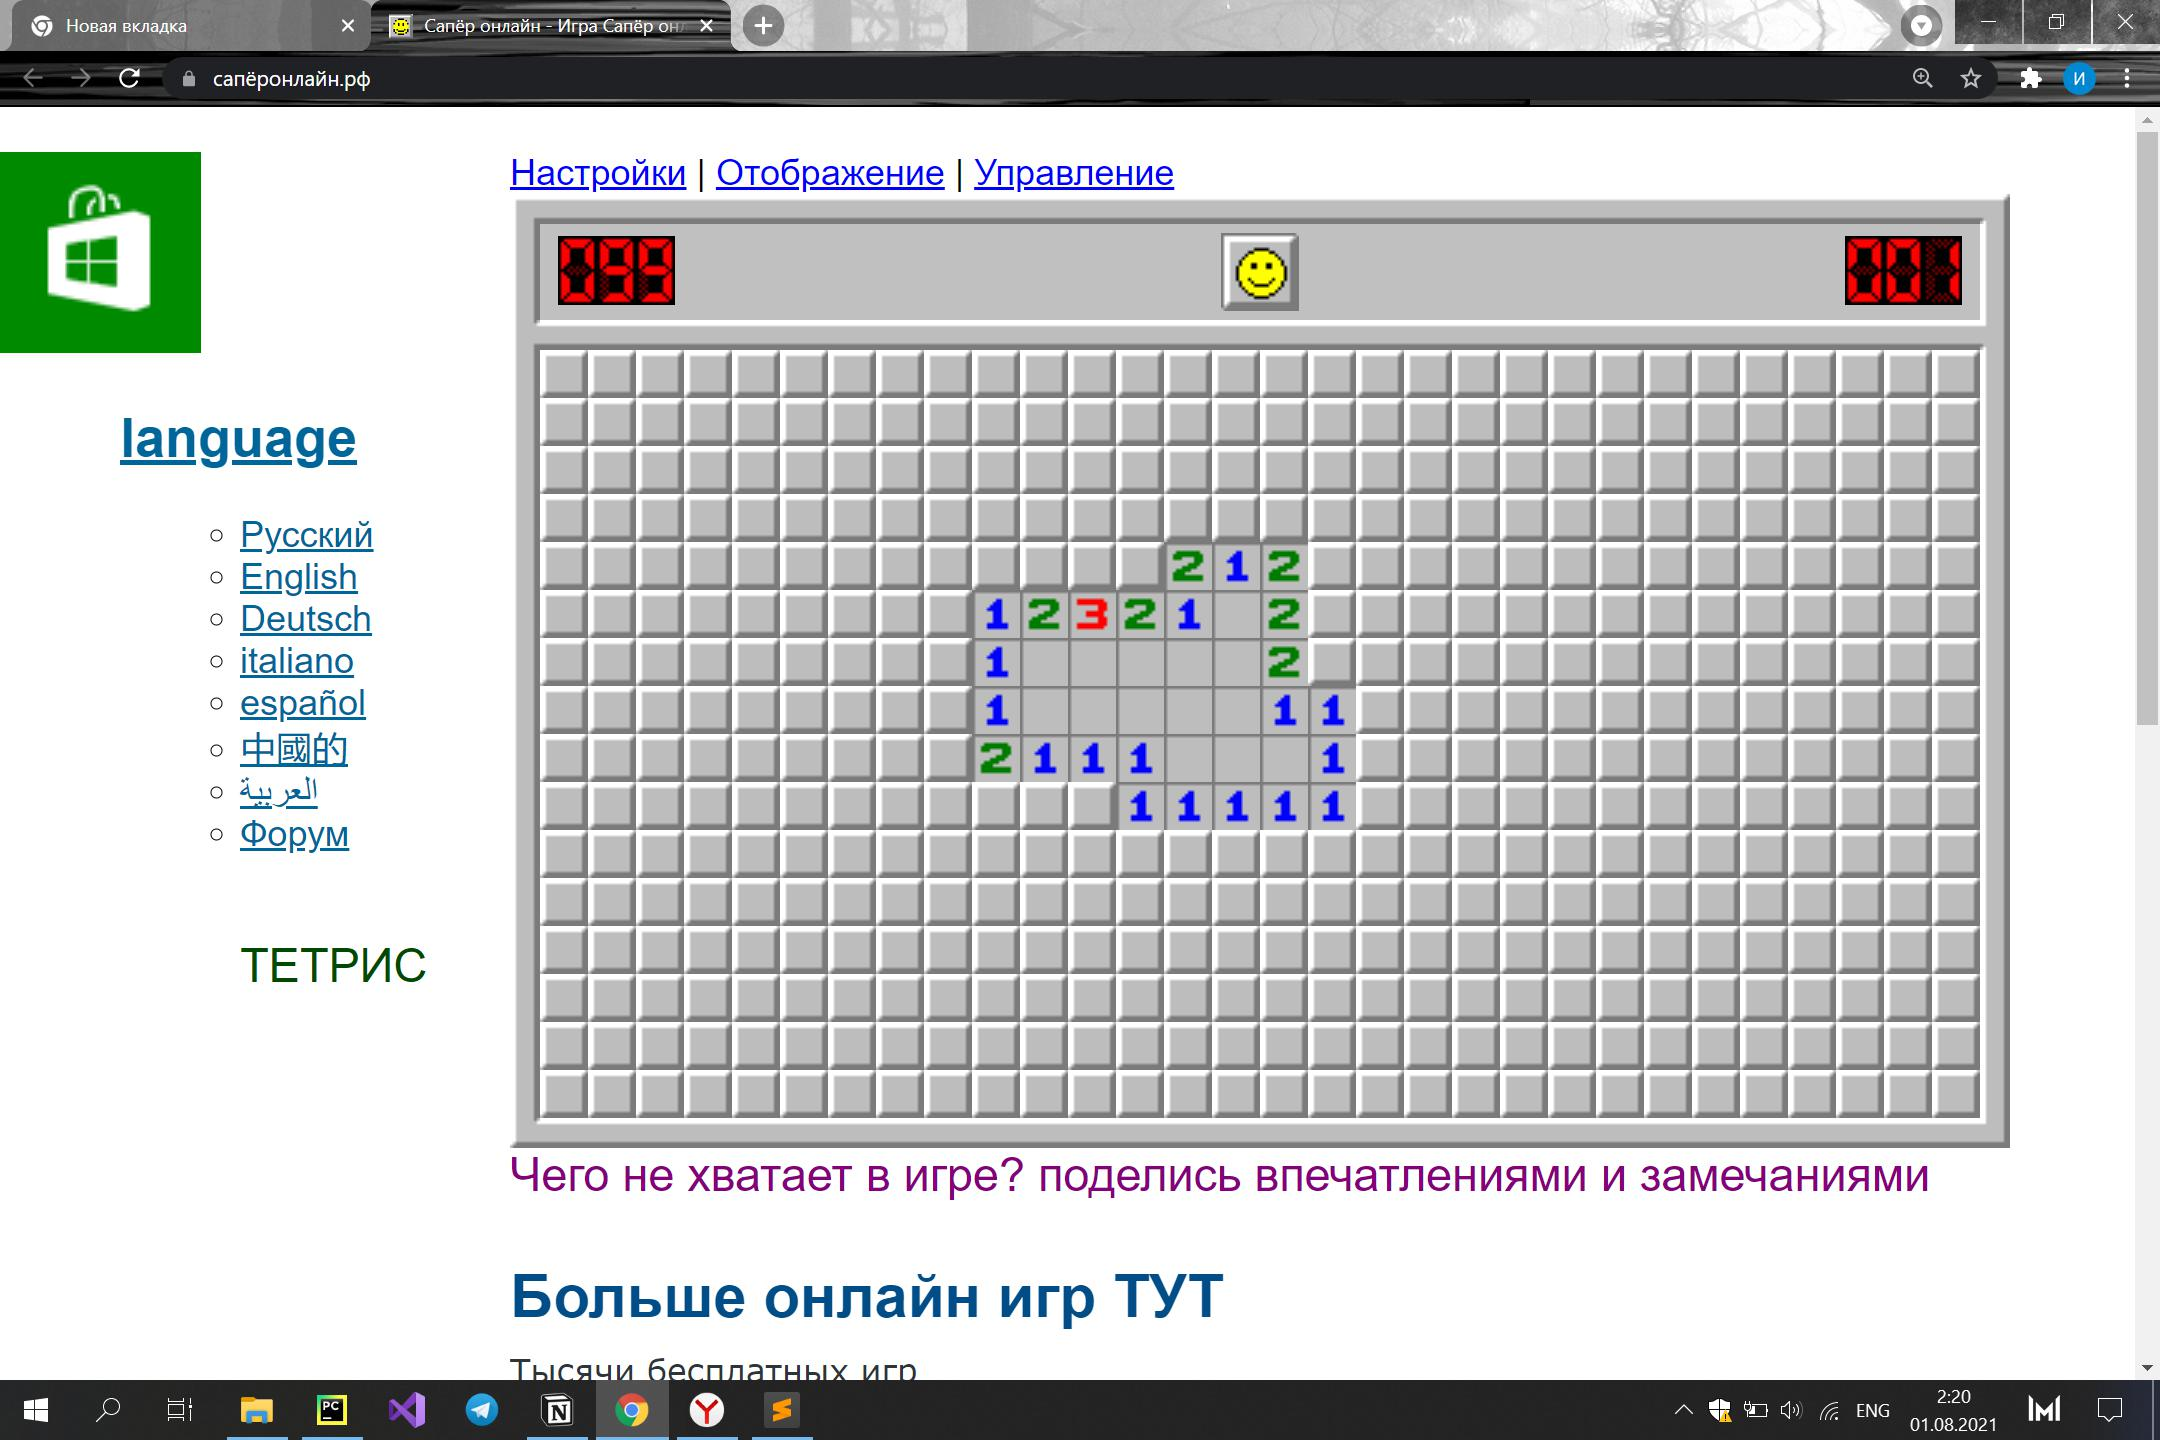
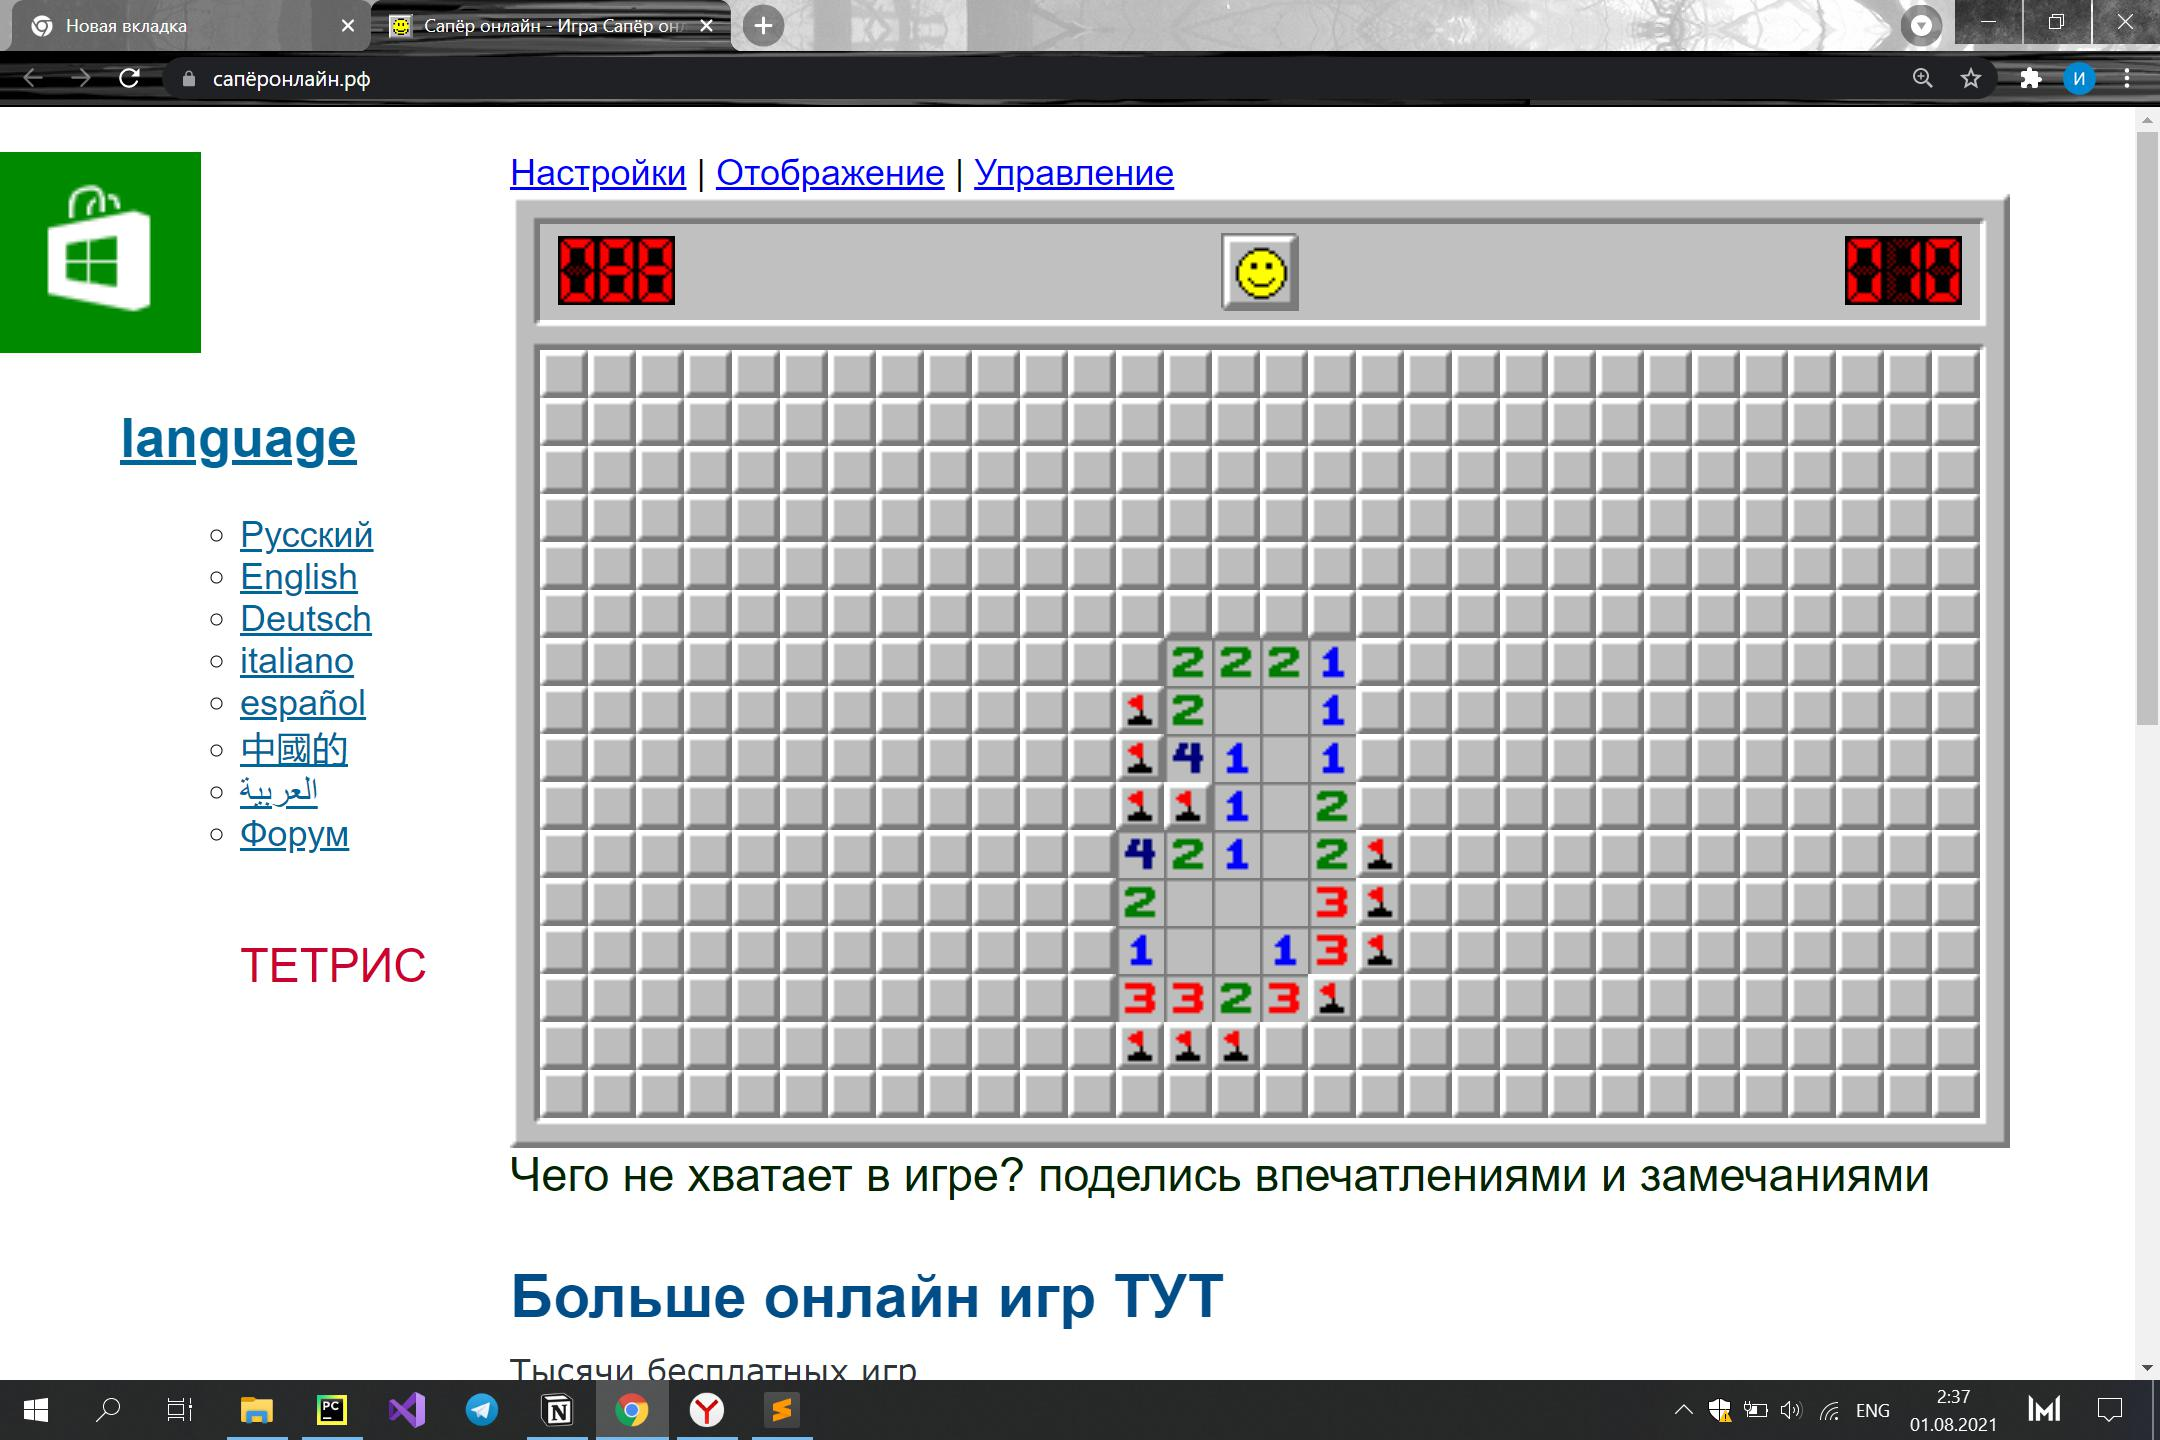
+ отмечает мины первой итерации

diff --git a/Sapper.py b/Sapper.py
@@ -63,8 +63,8 @@ class Sapper:
         countNumber = ['1', '2', '3', '4', '5', '6']
         for i in range(self.n):
             for j in range(self.m):
-                countLockCell = 0
                 for number in countNumber:
+                    countLockCell = 0
                     if self.table[i][j].value == number:  # TODO не проходит условие
                         try:
                             if self.table[i - 1][j - 1].value == '0' or \
@@ -117,46 +117,46 @@ class Sapper:
                             print()
 
                     if countLockCell == int(number):  # and countLockCell
-                        try:
-                            if self.table[i - 1][j - 1].value == '0':
-                                self.table[i - 1][j - 1].value = 'newX'
-                        except:
-                            print()
-                        try:
-                            if self.table[i - 1][j].value == '0':
-                                self.table[i - 1][j].value = 'newX'
-                        except:
-                            print()
-                        try:
-                            if self.table[i - 1][j + 1].value == '0':
-                                self.table[i - 1][j + 1].value = 'newX'
-                        except:
-                            print()
-                        try:
-                            if self.table[i + 1][j - 1].value == '0':
-                                self.table[i + 1][j - 1].value = 'newX'
-                        except:
-                            print()
-                        try:
-                            if self.table[i + 1][j].value == '0':
-                                self.table[i + 1][j].value = 'newX'
-                        except:
-                            print()
-                        try:
-                            if self.table[i + 1][j + 1].value == '0':
-                                self.table[i + 1][j + 1].value = 'newX'
-                        except:
-                            print()
-                        try:
-                            if self.table[i][j - 1].value == '0':
-                                self.table[i][j - 1].value = 'newX'
-                        except:
-                            print()
-                        try:
-                            if self.table[i][j + 1].value == '0':
-                                self.table[i][j + 1].value = 'newX'
-                        except:
-                            print()
+                            try:
+                                if self.table[i - 1][j - 1].value == '0':
+                                    self.table[i - 1][j - 1].value = 'newX'
+                            except:
+                                print()
+                            try:
+                                if self.table[i - 1][j].value == '0':
+                                    self.table[i - 1][j].value = 'newX'
+                            except:
+                                print()
+                            try:
+                                if self.table[i - 1][j + 1].value == '0':
+                                    self.table[i - 1][j + 1].value = 'newX'
+                            except:
+                                print()
+                            try:
+                                if self.table[i + 1][j - 1].value == '0':
+                                    self.table[i + 1][j - 1].value = 'newX'
+                            except:
+                                print()
+                            try:
+                                if self.table[i + 1][j].value == '0':
+                                    self.table[i + 1][j].value = 'newX'
+                            except:
+                                print()
+                            try:
+                                if self.table[i + 1][j + 1].value == '0':
+                                    self.table[i + 1][j + 1].value = 'newX'
+                            except:
+                                print()
+                            try:
+                                if self.table[i][j - 1].value == '0':
+                                    self.table[i][j - 1].value = 'newX'
+                            except:
+                                print()
+                            try:
+                                if self.table[i][j + 1].value == '0':
+                                    self.table[i][j + 1].value = 'newX'
+                            except:
+                                print()
 
     def putFlag(self):
         self.checkFlag()

diff --git a/SapperCell.py b/SapperCell.py
@@ -6,7 +6,7 @@ class SapperCell:
     __y1 = 0
     __x2 = 0
     __y2 = 0
-    value = 'l'
+    __value = ''
     __refresh = False
 
     def __init__(self, x1=0, y1=0, x2=0, y2=0, val=0, refresh=False):
